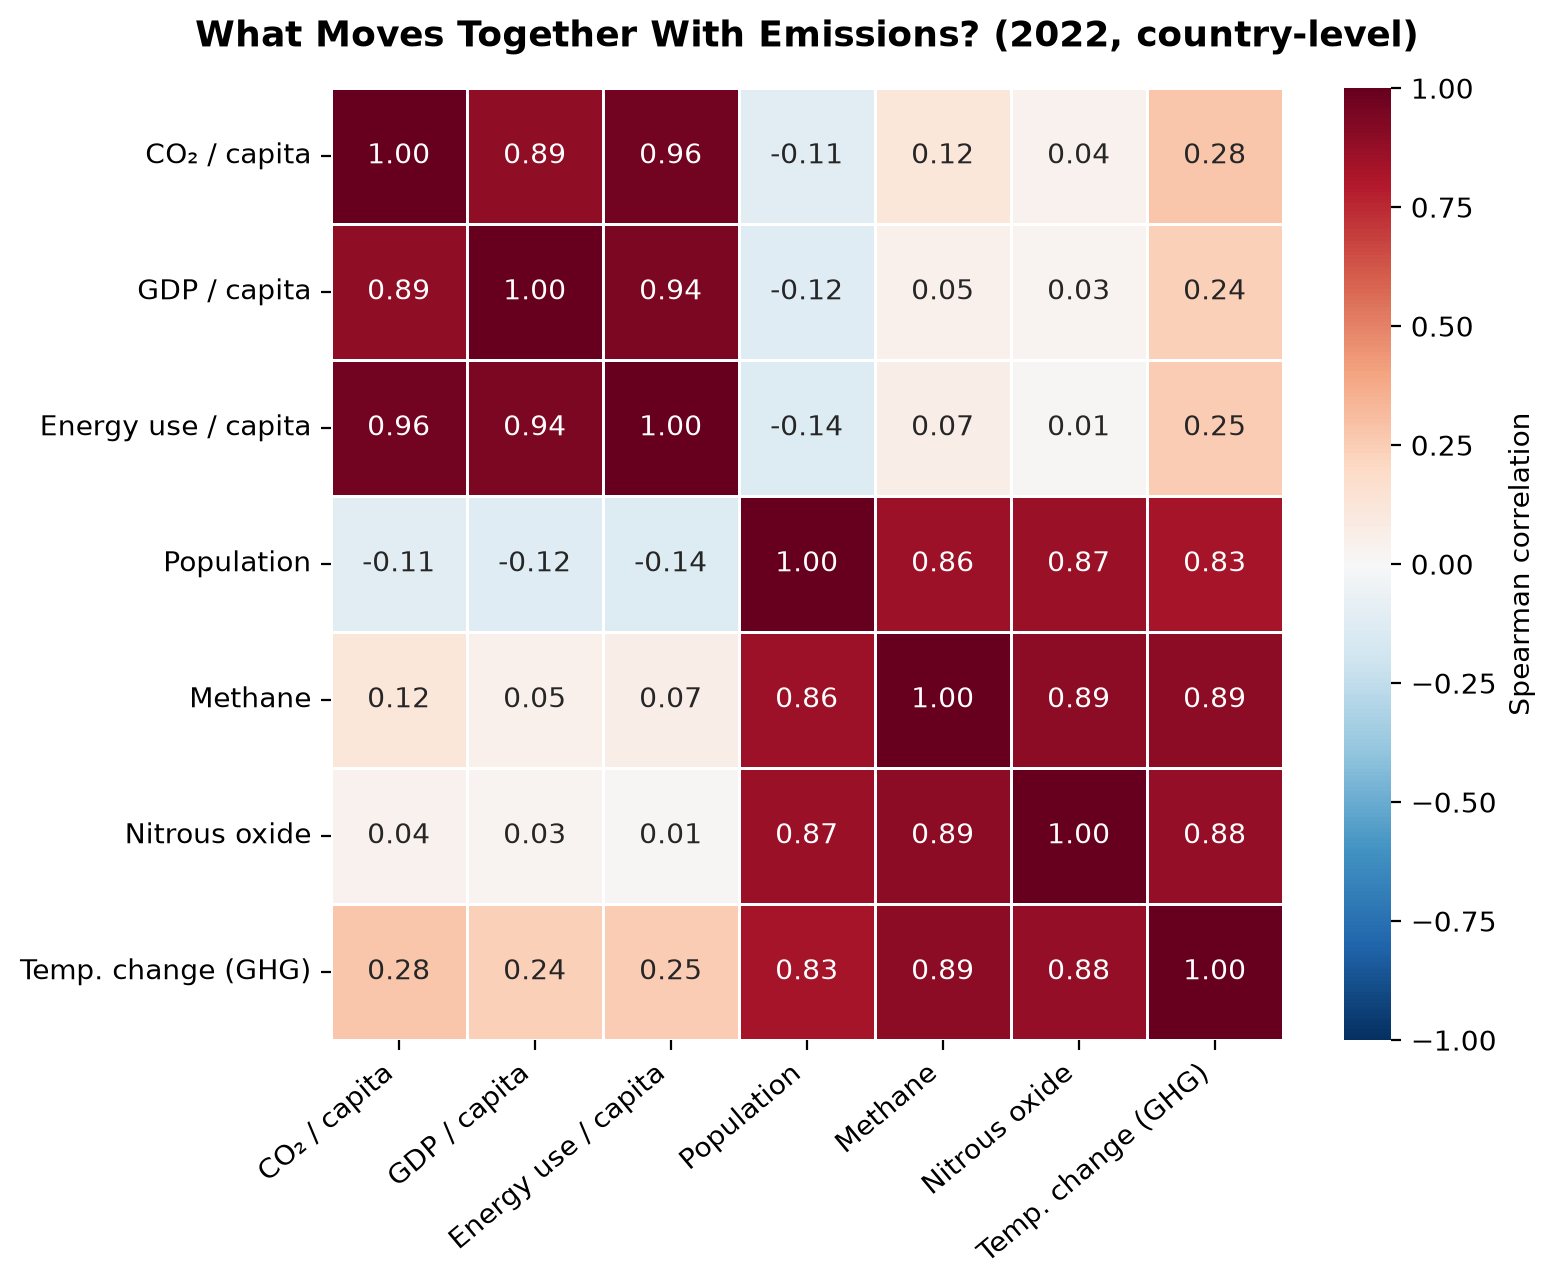
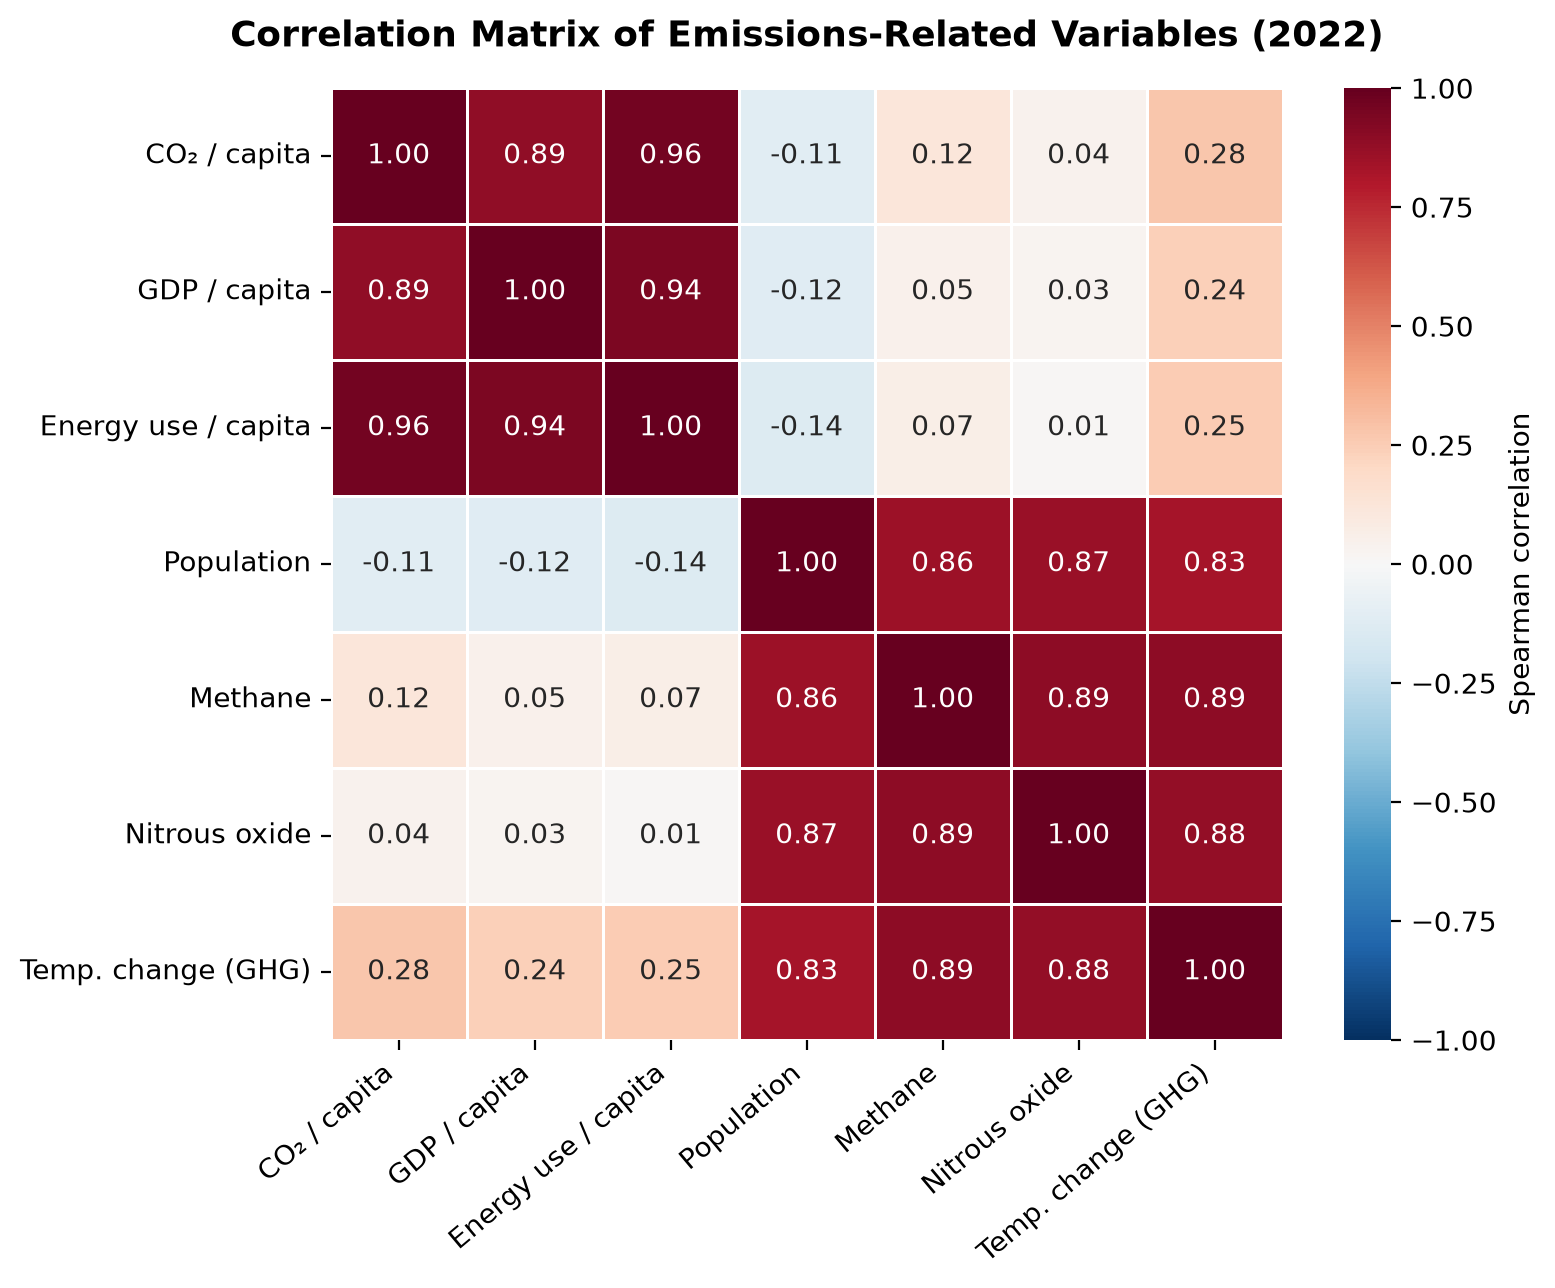
Add files via upload

Changed region(s): [[0.1235, 0.0, 0.926, 0.0621]]

diff --git a/clean_data.py b/clean_data.py
@@ -1,0 +1,47 @@
+"""
+Data cleaning / preparation
+Project: Who's Driving Climate Change? A Global CO2 Emissions Story
+Source: Our World in Data CO2 & Greenhouse Gas Emissions Dataset
+        https://github.com/owid/co2-data  (CC-BY 4.0)
+"""
+import pandas as pd
+import numpy as np
+
+RAW = "data/owid-co2-data.csv"
+df = pd.read_csv(RAW)
+
+# Keep only real countries (drop aggregates like "World", "Asia", income groups, etc.)
+AGGREGATES = [
+    "World", "Asia", "Africa", "Europe", "North America", "South America",
+    "Oceania", "European Union (27)", "European Union (28)",
+    "High-income countries", "Low-income countries", "Lower-middle-income countries",
+    "Upper-middle-income countries", "International transport", "Antarctica",
+    "Asia (excl. China and India)", "North America (excl. USA)",
+    "Europe (excl. EU-27)", "Europe (excl. EU-28)"
+]
+
+countries_df = df[~df["country"].isin(AGGREGATES)].copy()
+world_df = df[df["country"] == "World"].copy()
+
+# Core columns used across the project
+KEEP_COLS = [
+    "country", "year", "iso_code", "population", "gdp",
+    "co2", "co2_per_capita", "co2_growth_prct", "cumulative_co2",
+    "coal_co2", "oil_co2", "gas_co2", "cement_co2",
+    "share_global_co2", "share_global_cumulative_co2",
+    "primary_energy_consumption", "energy_per_capita",
+    "methane", "nitrous_oxide", "total_ghg",
+    "temperature_change_from_ghg"
+]
+core = countries_df[KEEP_COLS].copy()
+
+# Drop rows with no CO2 figure at all (can't analyze what isn't measured)
+core = core.dropna(subset=["co2"])
+
+core.to_csv("data/co2_countries_clean.csv", index=False)
+world_df.to_csv("data/co2_world_clean.csv", index=False)
+
+print("Countries (cleaned):", core.shape)
+print("Year range:", core["year"].min(), "-", core["year"].max())
+print("Countries:", core["country"].nunique())
+print("World rows:", world_df.shape)

diff --git a/main.py b/main.py
@@ -99,9 +99,9 @@ def run_script(script_name: str) -> bool:
 
 
 def main():
-    print("=" * 60)
+    # print("=" * 60)
     print("CO2 EMISSIONS DATA VISUALIZATION — PIPELINE START")
-    print("=" * 60)
+    # print("=" * 60)
 
     check_setup()
 
@@ -109,9 +109,9 @@ def main():
     for script in PIPELINE:
         results[script] = run_script(script)
 
-    print("\n" + "=" * 60)
+    # print("\n" + "=" * 60)
     print("SUMMARY")
-    print("=" * 60)
+    # print("=" * 60)
     for script, ok in results.items():
         status = "OK" if ok else "FAILED"
         print(f"  [{status}] {script}")

diff --git a/viz2_top_emitters.py b/viz2_top_emitters.py
@@ -32,7 +32,10 @@ axes[1].set_xlabel("Tonnes CO\u2082 per capita")
 for s in ["top", "right"]:
     axes[1].spines[s].set_visible(False)
 
-fig.suptitle("Two Different Rankings, Two Different Stories",
+# fig.suptitle("Two Different Rankings, Two Different Stories",
+#               fontsize=15, fontweight="bold", y=1.03)
+
+fig.suptitle("Top 10 Emitting Countries: Total CO\u2082 vs. CO\u2082 per Capita (2023)",
               fontsize=15, fontweight="bold", y=1.03)
 # fig.text(0.5, -0.02,
 #          "Source: Our World in Data \u2014 Global Carbon Project. Countries with population < 1M excluded.",

diff --git a/viz4_source_mix.py b/viz4_source_mix.py
@@ -19,7 +19,10 @@ colors = ["#2c2c2c", "#8b4513", "#4a90d9", "#a0a0a0"]
 
 ax.stackplot(w["year"], *[w[s] for s in sources], labels=labels, colors=colors, alpha=0.88)
 
-ax.set_title("What's Driving Global Emissions? The Fuel Mix, 1900\u20132023",
+# ax.set_title("What's Driving Global Emissions? The Fuel Mix, 1900\u20132023",
+#               fontsize=15, fontweight="bold", loc="left", pad=15)
+
+ax.set_title("Global CO\u2082 Emissions by Fuel Source, 1900\u20132023",
               fontsize=15, fontweight="bold", loc="left", pad=15)
 ax.set_xlabel("Year")
 ax.set_ylabel("CO\u2082 emissions (million tonnes)")

diff --git a/viz6_correlation.py b/viz6_correlation.py
@@ -25,7 +25,9 @@ fig, ax = plt.subplots(figsize=(8, 6.5), dpi=200)
 sns.heatmap(corr, annot=True, fmt=".2f", cmap="RdBu_r", center=0,
             vmin=-1, vmax=1, square=True, linewidths=0.5,
             cbar_kws={"label": "Spearman correlation"}, ax=ax)
-ax.set_title("What Moves Together With Emissions? (2022, country-level)",
+# ax.set_title("What Moves Together With Emissions? (2022, country-level)",
+#               fontsize=13, fontweight="bold", pad=15)
+ax.set_title("Correlation Matrix of Emissions-Related Variables (2022)",
               fontsize=13, fontweight="bold", pad=15)
 ax.set_xticklabels(ax.get_xticklabels(), rotation=40, ha="right")
 ax.set_yticklabels(ax.get_yticklabels(), rotation=0)

diff --git a/viz1_trajectory.py b/viz1_trajectory.py
@@ -45,6 +45,7 @@ for yr, label in events:
 
 ax.set_title("The Great Acceleration: Global CO\u2082 Emissions, 1850\u20132024",
              fontsize=15, fontweight="bold", pad=15, loc="left")
+
 ax.set_xlabel("Year")
 ax.set_ylabel("CO\u2082 emissions (million tonnes)")
 ax.yaxis.set_major_formatter(mticker.FuncFormatter(lambda x, _: f"{x/1000:.0f}k"))